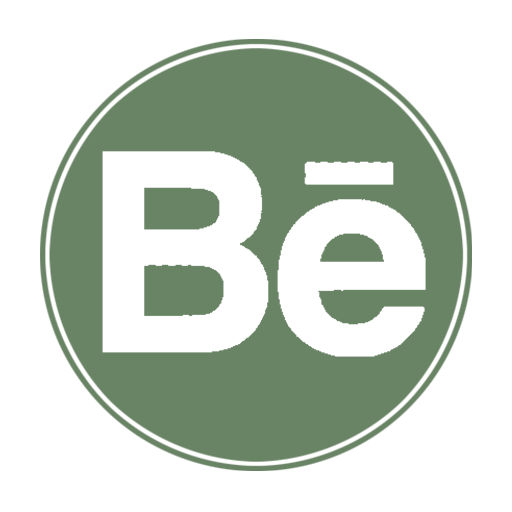
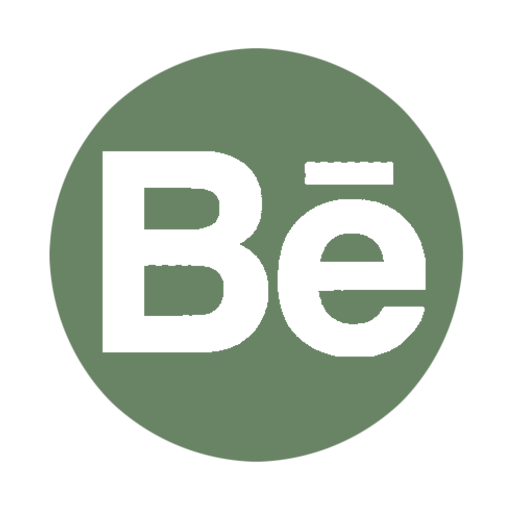
upgraded behance button link
++ replaced image file with preferred version

html
+switched it to behance alt image

diff --git a/index.html b/index.html
@@ -208,7 +208,7 @@
             <ul class="col-12">
                 <li class="col-1">
                     <a href="https://www.behance.net/davidsethdesigns" target="_blank">
-                        <img src="images/behance-512-green.png" alt="Behance Adobe logo" />
+                        <img src="images/behance-512-green-alt.png" alt="Behance Adobe logo" />
                     </a>
                 </li>
                 <li class="col-1">
